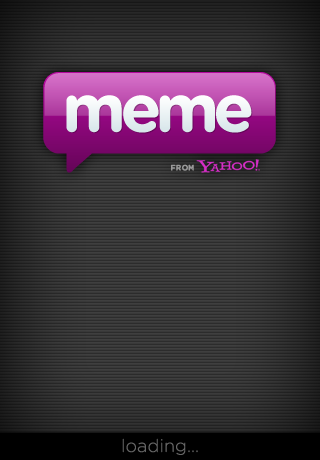
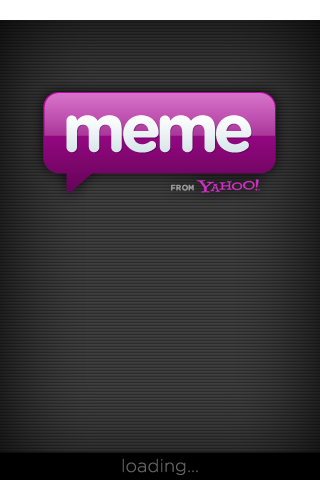
Removed glitch on splash screen.

diff --git a/src/Resources/meme/ui/home.js b/src/Resources/meme/ui/home.js
@@ -46,8 +46,8 @@
 	var createHeader = function() {
 		var logoView = Ti.UI.createView({
 			backgroundImage: 'images/en/logo_big.png',
-			top: 72,
-			left: 32,
+			top: 57,
+			left: 28,
 			width: 263,
 			height: 146,
 			visible: true
